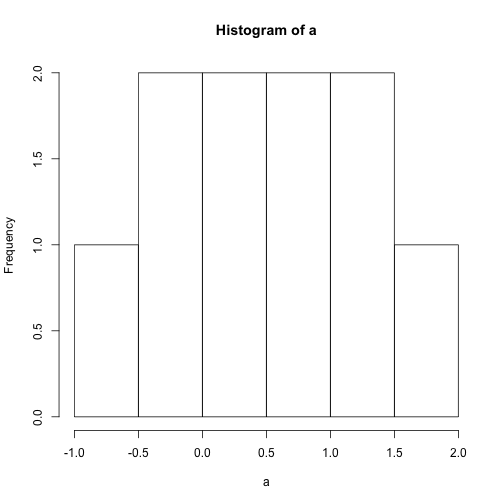
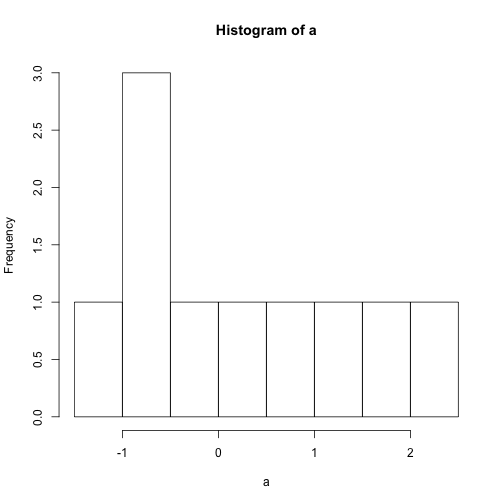
class work

diff --git a/docs/Test.html b/docs/Test.html
@@ -45,8 +45,8 @@ print(a)
 ```
 
 ```
-##  [1]  1.31120788 -0.17355706 -0.11585397  0.50517653  1.39385395
-##  [6]  0.27759417  1.61153244  0.05082238 -0.78211693  0.52083194
+##  [1] -0.4215416  0.3485999 -0.6563207 -0.8244776 -0.9607546  1.1823189
+##  [7]  1.5456184  0.5603237 -1.0919101  2.1660355
 ```
 
 ---

diff --git a/docs/EasyProblems.html b/docs/EasyProblems.html
@@ -277,7 +277,7 @@ $(document).ready(function ()  {
 
     // establish options
     var options = {
-      selectors: "h1",
+      selectors: "h1,h2",
       theme: "bootstrap3",
       context: '.toc-content',
       hashGenerator: function (text) {
